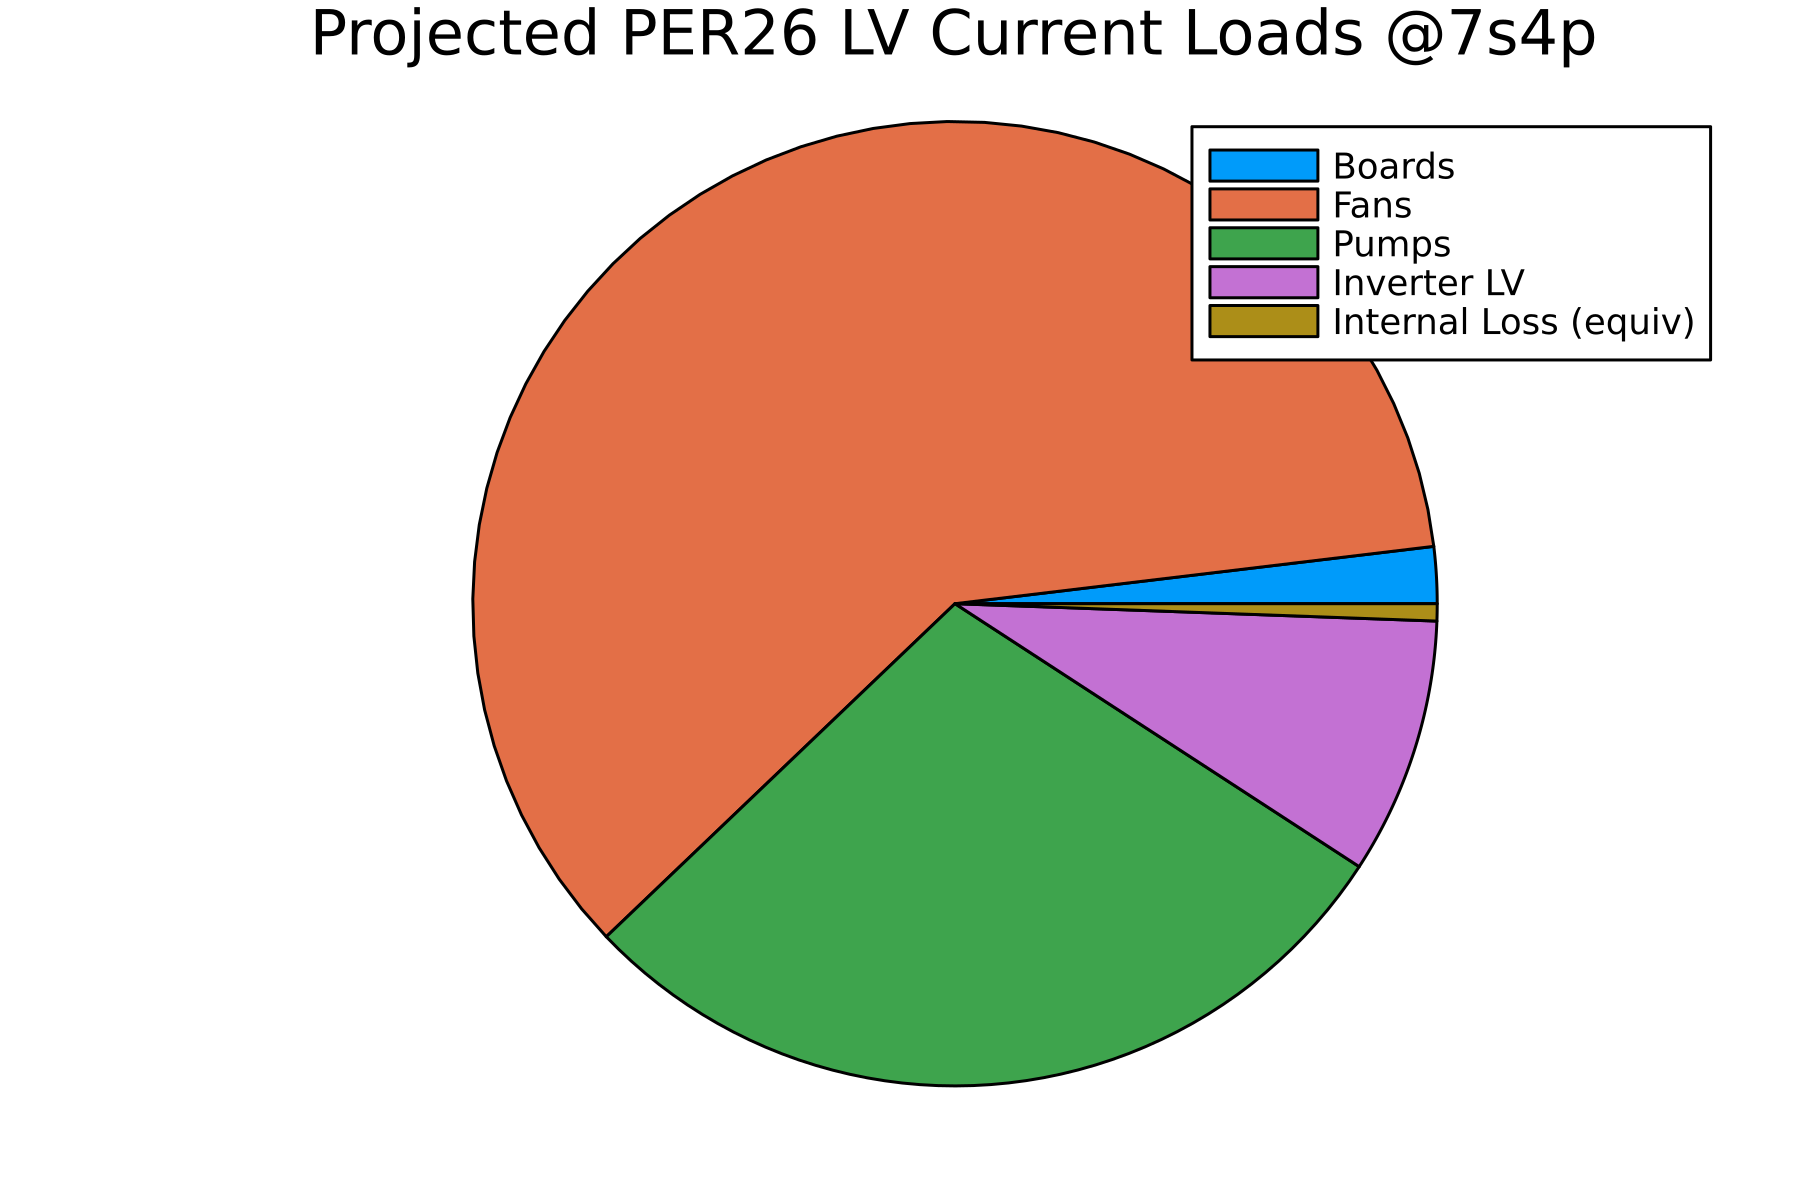
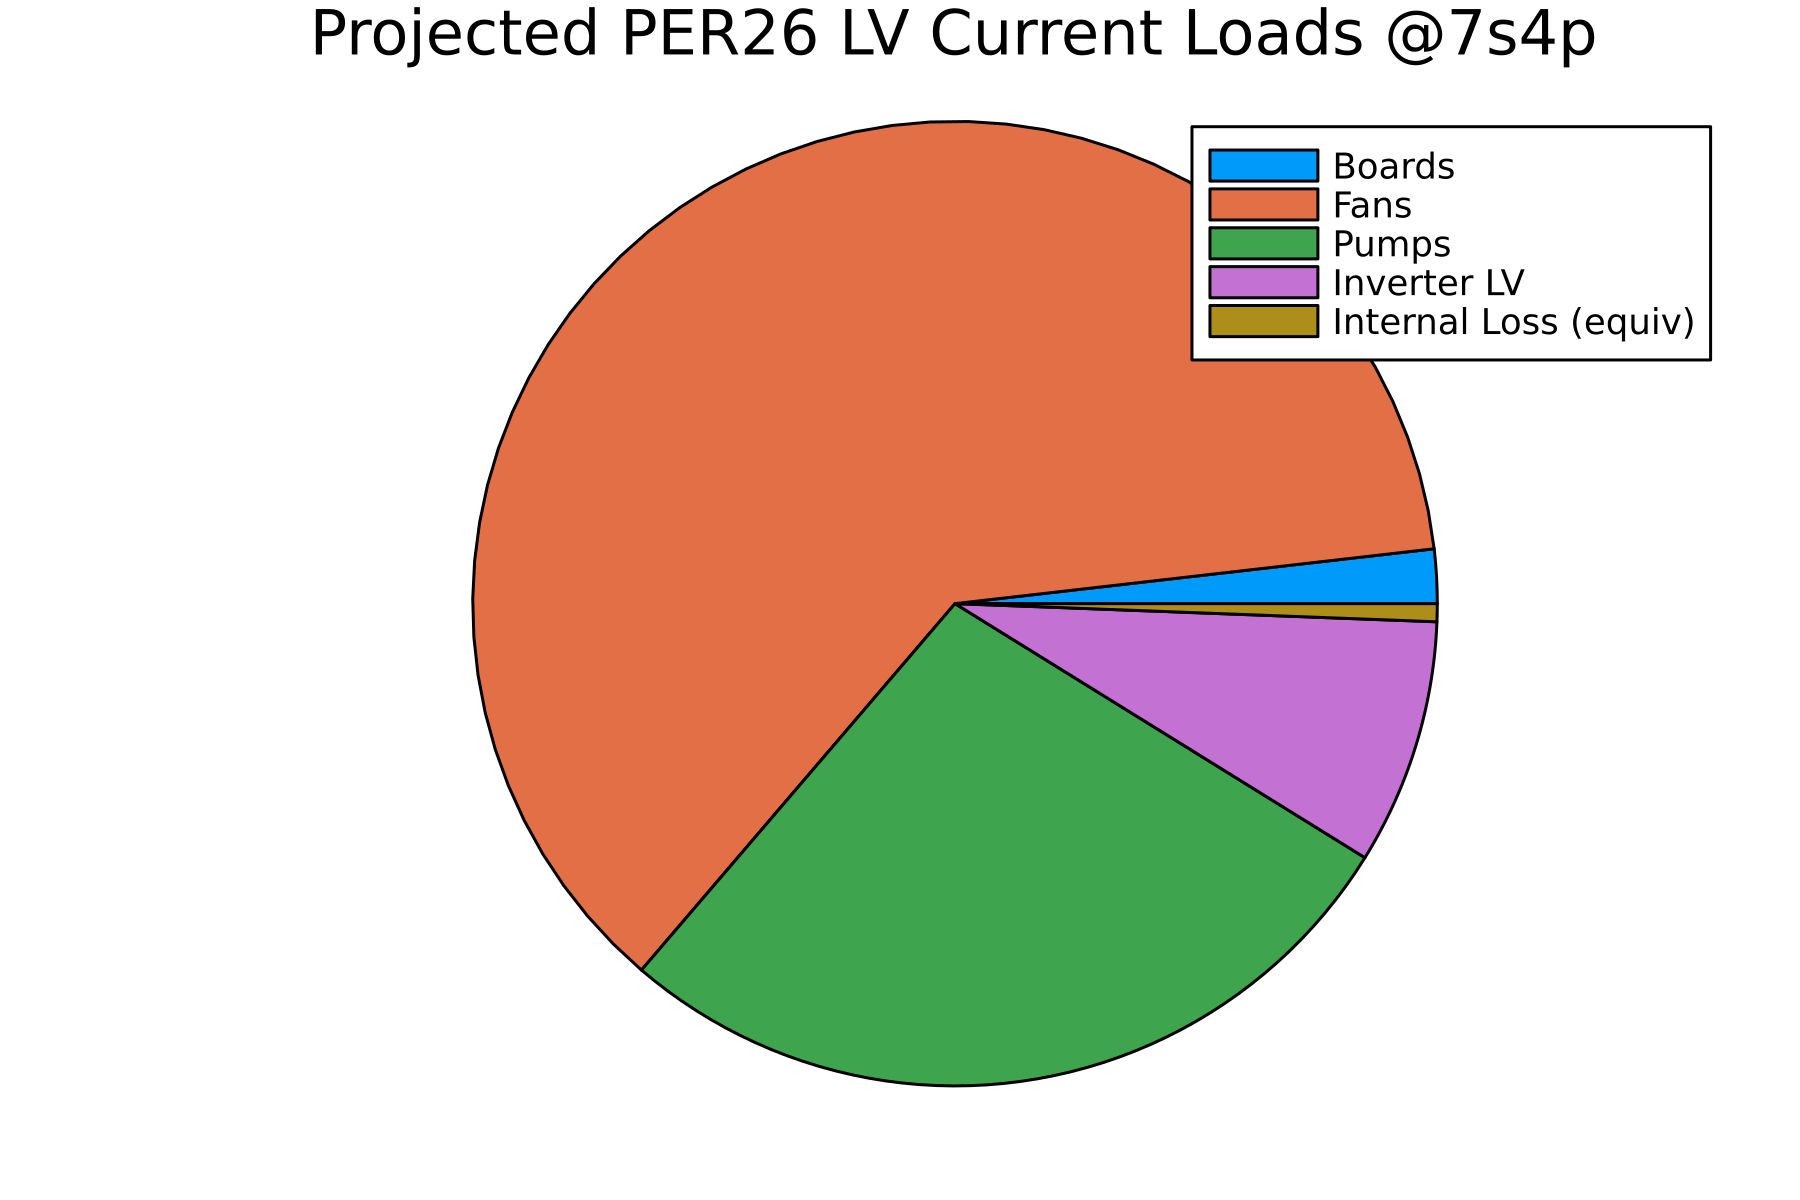
update fan loads with bench data

diff --git a/README.md b/README.md
@@ -13,6 +13,6 @@ Thermistor modeling:
 
 LV battery sizing:
 ![per26_lv_loads](figures/per26_lv_loads.png)
-- Runtime: 46.00 minute
-- Sustained Total Current: 20.92 A
-- Endurance factor of safety: 1.71
+- Runtime: 44.00 minute
+- Sustained Total Current: 21.87 A
+- Endurance factor of safety: 1.63
